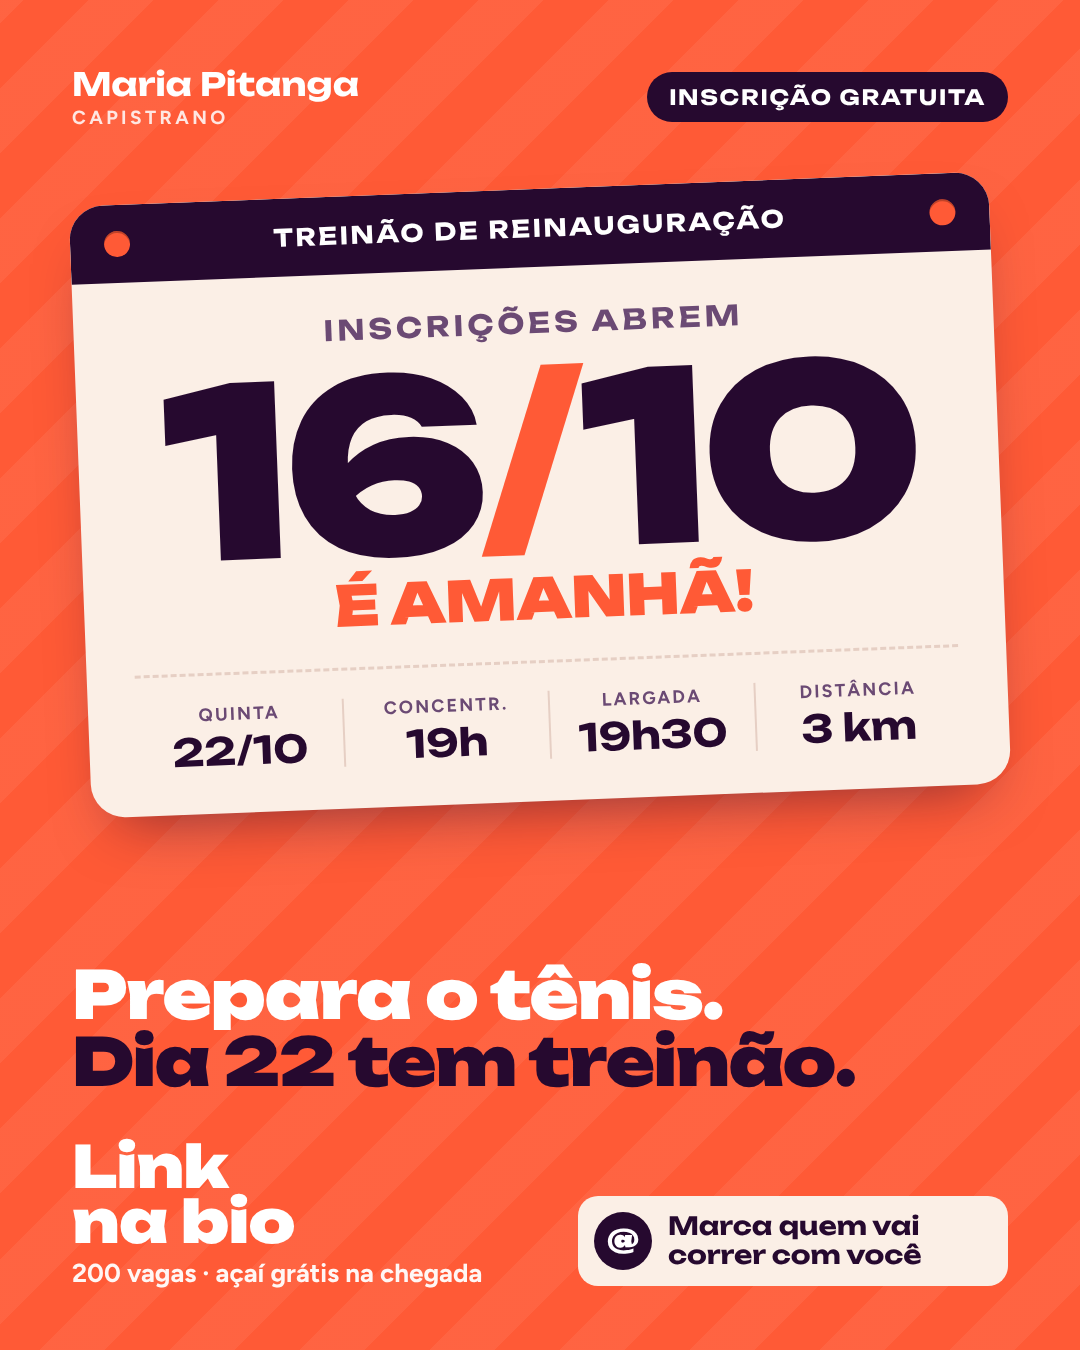
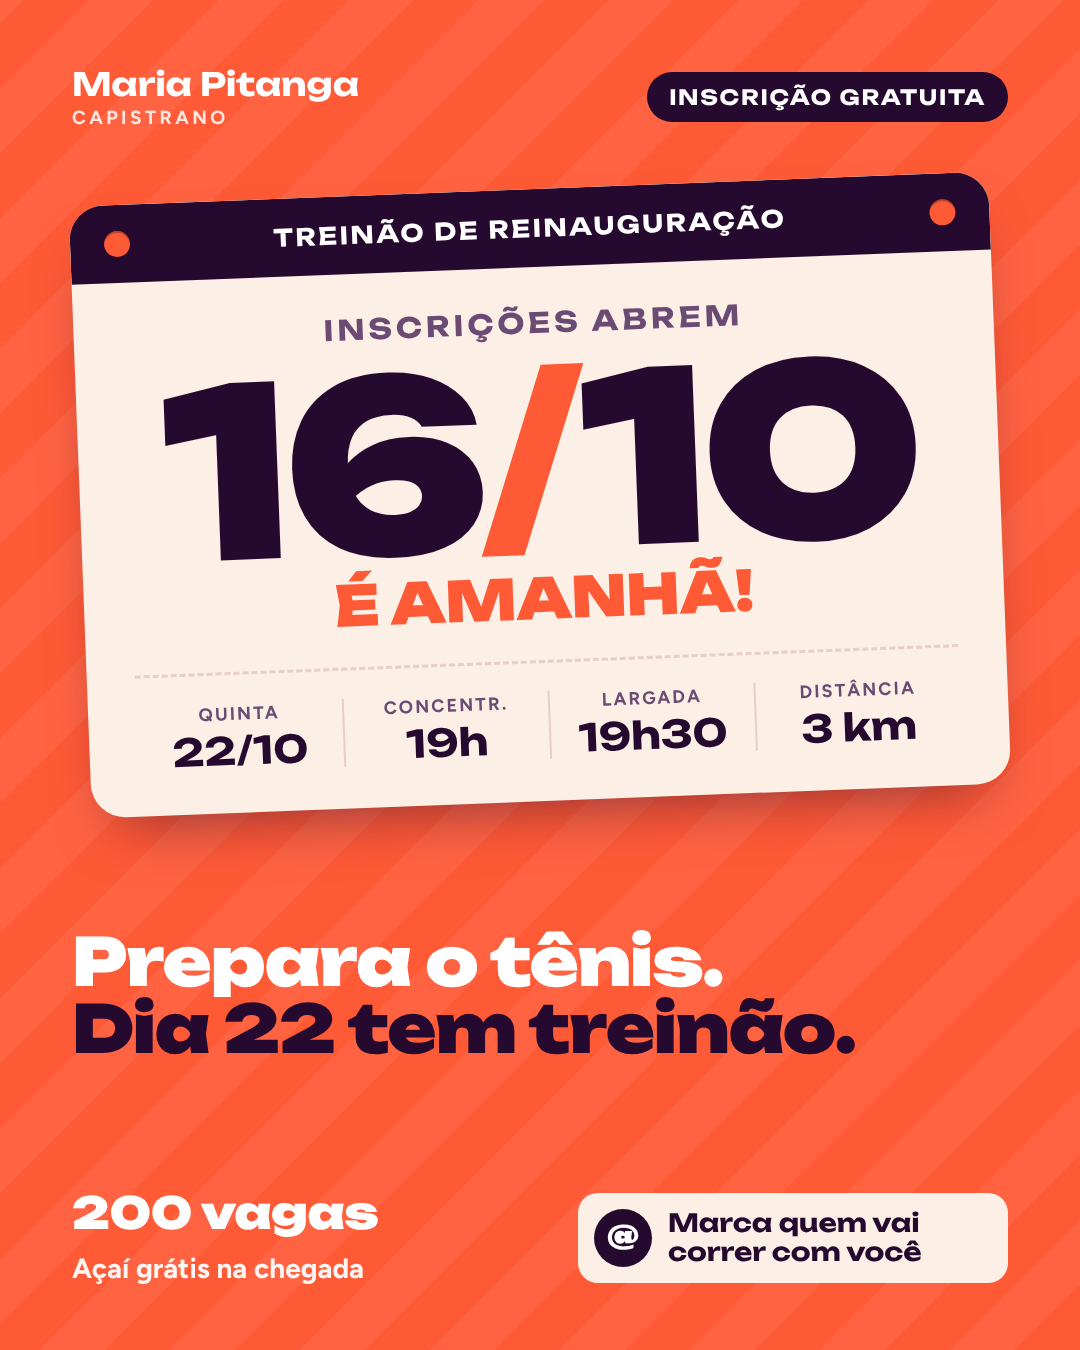
Post: tira o link na bio enquanto as inscrições não abrem
Claude-Session: https://claude.ai/code/session_01TocaGZsmS1Pu3dG53TNHn9

Changed region(s): [[0.0611, 0.6844, 0.7944, 0.8089], [0.0611, 0.84, 0.4583, 0.9644], [0.55, 0.8711, 0.8556, 0.9644]]

diff --git a/divulgacao/post-peito.html b/divulgacao/post-peito.html
@@ -31,11 +31,14 @@ body{width:1080px;height:1350px;background:var(--pitanga);color:var(--acai);font
 .dados div+div{border-left:2px solid var(--borda)}
 .dados small{font-size:18px;font-weight:700;letter-spacing:.12em;text-transform:uppercase;color:var(--tinta-2)}
 .dados strong{font-family:var(--display);font-weight:700;font-size:38px;line-height:1.05}
-.frase{margin-top:auto;align-self:flex-start;font-family:var(--display);font-weight:900;font-size:66px;line-height:1.02;letter-spacing:-.02em;color:#fff}
+.frase{margin-top:auto;margin-bottom:auto;align-self:flex-start;font-family:var(--display);font-weight:900;font-size:66px;line-height:1.02;letter-spacing:-.02em;color:#fff}
 .frase span{color:var(--acai)}
-.base{margin-top:44px;width:100%;display:flex;justify-content:space-between;align-items:flex-end;gap:28px;color:#fff}
+.base{margin-top:0;width:100%;display:flex;justify-content:space-between;align-items:flex-end;gap:28px;color:#fff}
 .link{font-family:var(--display);font-weight:900;font-size:58px;line-height:.95;letter-spacing:-.01em}
 .link small{display:block;font-family:var(--body);font-weight:700;font-size:26px;letter-spacing:0;margin-top:12px;opacity:.95}
+.info{font-family:var(--display);font-weight:900;font-size:44px;line-height:1.1;letter-spacing:-.01em}
+.info span{font-family:var(--body);font-weight:700;font-size:28px;letter-spacing:0;opacity:.95}
+.base{align-items:center}
 .tag{display:flex;align-items:center;gap:16px;background:var(--creme);color:var(--acai);border-radius:20px;padding:16px 24px 16px 16px;max-width:430px}
 .tag i{flex:none;width:58px;height:58px;border-radius:50%;background:var(--acai);color:#fff;display:grid;place-items:center;font-style:normal;font-family:var(--display);font-weight:900;font-size:30px;padding-bottom:4px}
 .tag span{font-family:var(--display);font-weight:700;font-size:25px;line-height:1.15}
@@ -64,7 +67,7 @@ body{width:1080px;height:1350px;background:var(--pitanga);color:var(--acai);font
   </div>
   <div class="frase">Prepara o tênis.<br><span>Dia 22 tem treinão.</span></div>
   <div class="base">
-    <div class="link">Link<br>na bio<small>200 vagas · açaí grátis na chegada</small></div>
+    <div class="info">200 vagas<br><span>Açaí grátis na chegada</span></div>
     <div class="tag"><i aria-hidden="true">@</i><span>Marca quem vai correr com você</span></div>
   </div>
 </div>
